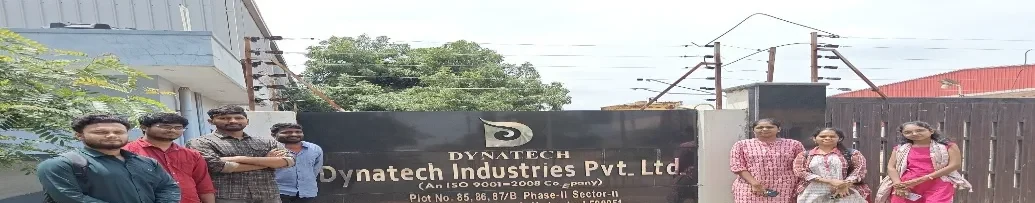
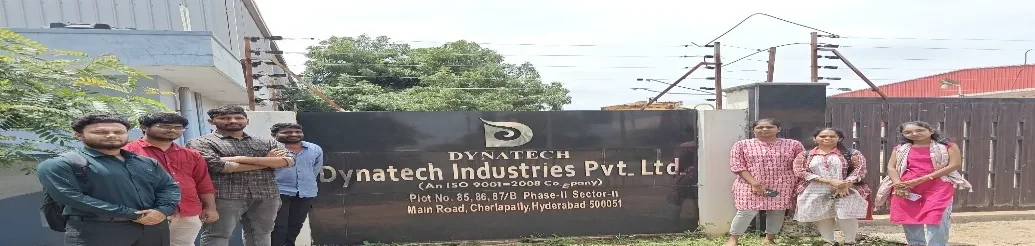
fix: stop gallery images being cut off
Two separate causes, both visible in the experiential learning section.

The fixed-height tile (h-56/h-60 with object-cover) is only right when
several images sit side by side and a shared height is what makes the row
read as a row. A lone tile had nothing to line up against, so all that
height did was crop the photo - on a 4:3 group shot it cut people's heads
off at the top and their feet at the bottom. A single tile now keeps its
own proportions, like a `full` image does. Eight galleries were affected.

The other was mine: the GPS watermark crop on experiential-learning-1 was
too deep and sliced through the Dynatech signboard mid-sentence. The
overlay starts at 66% of the image height, not the 54.5% I cut at.
Re-cropped from the original, so the whole sign is back and the watermark
is still gone.

Claude-Session: https://claude.ai/code/session_01UC2Knuf4WKGTHUWQTxoQxK

diff --git a/src/app/faculty-initiatives/page.jsx b/src/app/faculty-initiatives/page.jsx
@@ -126,6 +126,7 @@ function Bullets({ items, title }) {
 // `full` (span the whole row) and `fit: "contain"` (letterbox instead of crop).
 function Gallery({ images, caption }) {
   const tiles = images.filter((image) => !image.full);
+  const solo = tiles.length === 1;
   const gridCols =
     tiles.length <= 1
       ? "grid-cols-1"
@@ -145,12 +146,14 @@ function Gallery({ images, caption }) {
             decoding="async"
             className={[
               "rounded-xl border border-gray-200 shadow-sm bg-gray-50",
-              // A contained image keeps its own width and centres, instead of
-              // being stretched across the row with dead space either side.
-              image.full
-                ? "col-span-full mx-auto w-auto max-w-full max-h-96 object-contain"
+              // Fixed-height tiles only work when several sit side by side and
+              // a shared height is what makes the row read as a row. A full
+              // image, or a lone tile with nothing to line up against, keeps
+              // its own proportions instead of being cropped to a letterbox.
+              image.full || solo
+                ? "col-span-full mx-auto w-auto max-w-full max-h-[28rem] object-contain"
                 : "w-full h-56 sm:h-60",
-              image.full
+              image.full || solo
                 ? ""
                 : image.fit === "contain"
                   ? "object-contain p-2"
